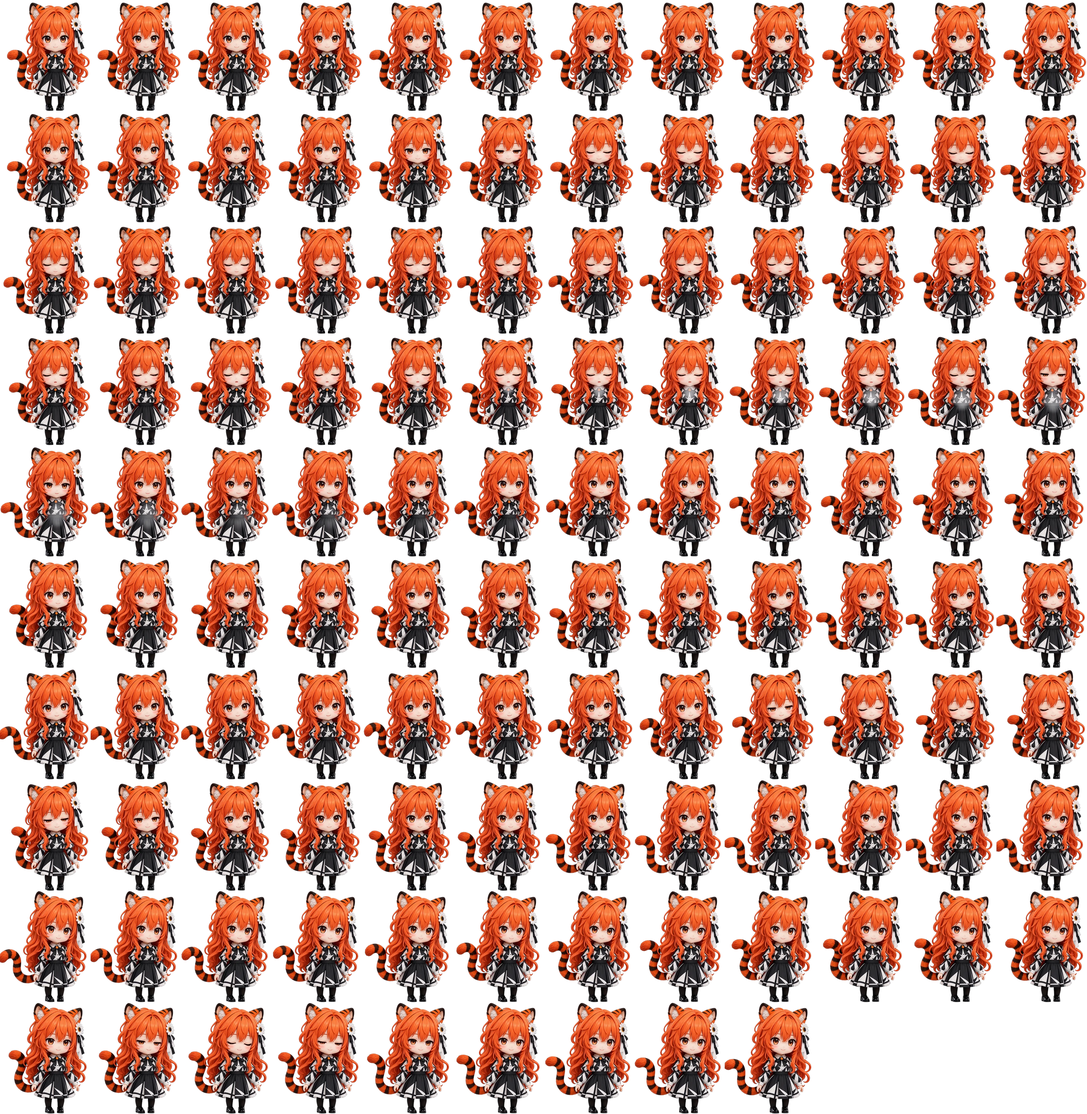
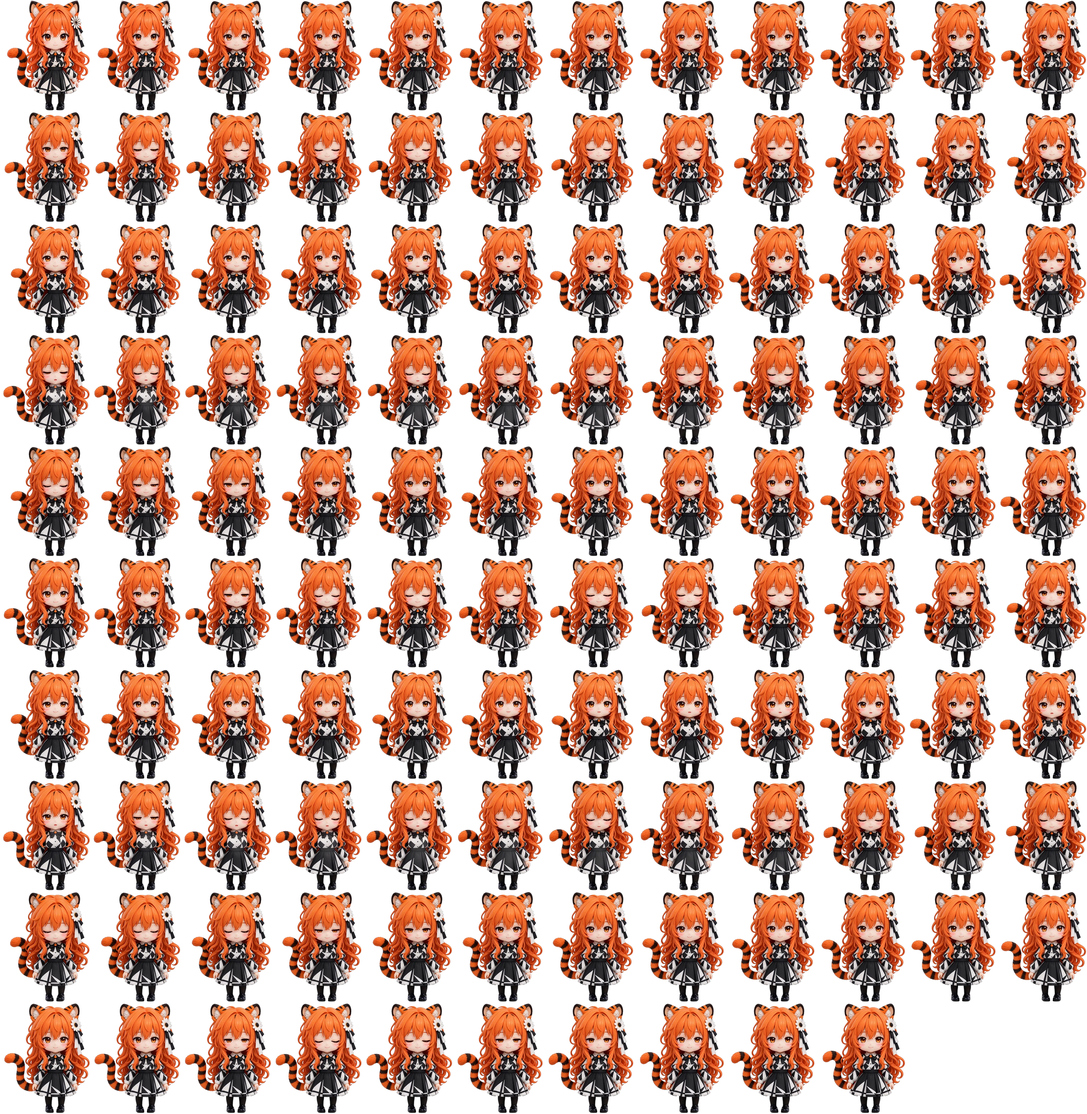
换上 v3 待机动画（去掉白雾，118 帧）

diff --git a/character-assets.js b/character-assets.js
@@ -7,7 +7,7 @@
   // Frame size in atlas pixels; the body centre is where the torso sits, the tail extends to the left.
   const stage = Object.freeze({ width: 270, height: 332, center: 165 });
   const poses = {
-    idle: { file: 'chibi/idle.webp', frames: 117, columns: 12, fps: 16, loop: 'pingpong' }
+    idle: { file: 'chibi/idle.webp', frames: 118, columns: 12, fps: 16, loop: 'pingpong' }
   };
   // Expressions requested by the app map to poses; missing poses play idle with a small hop.
   const expressionPoses = Object.freeze({
